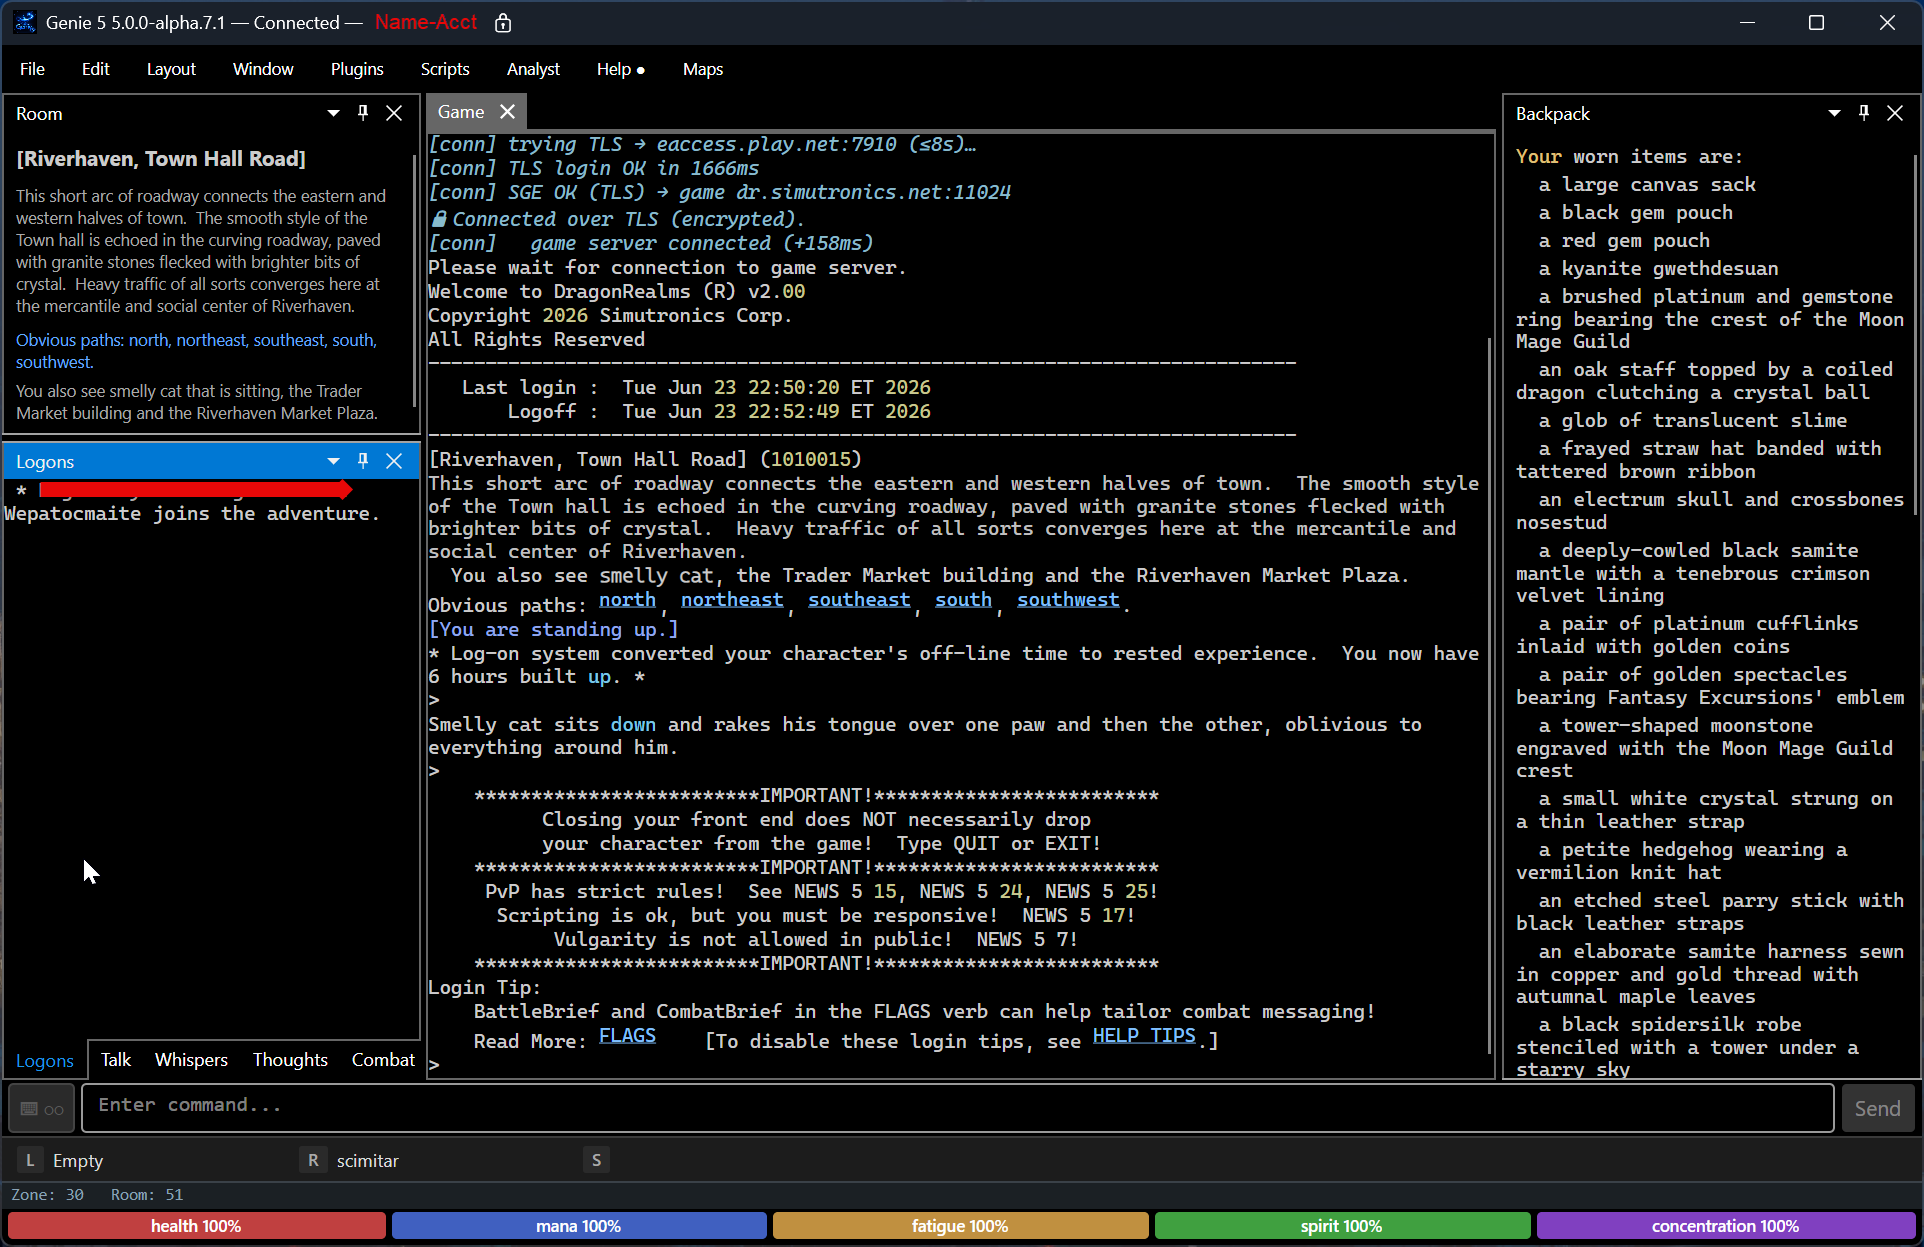
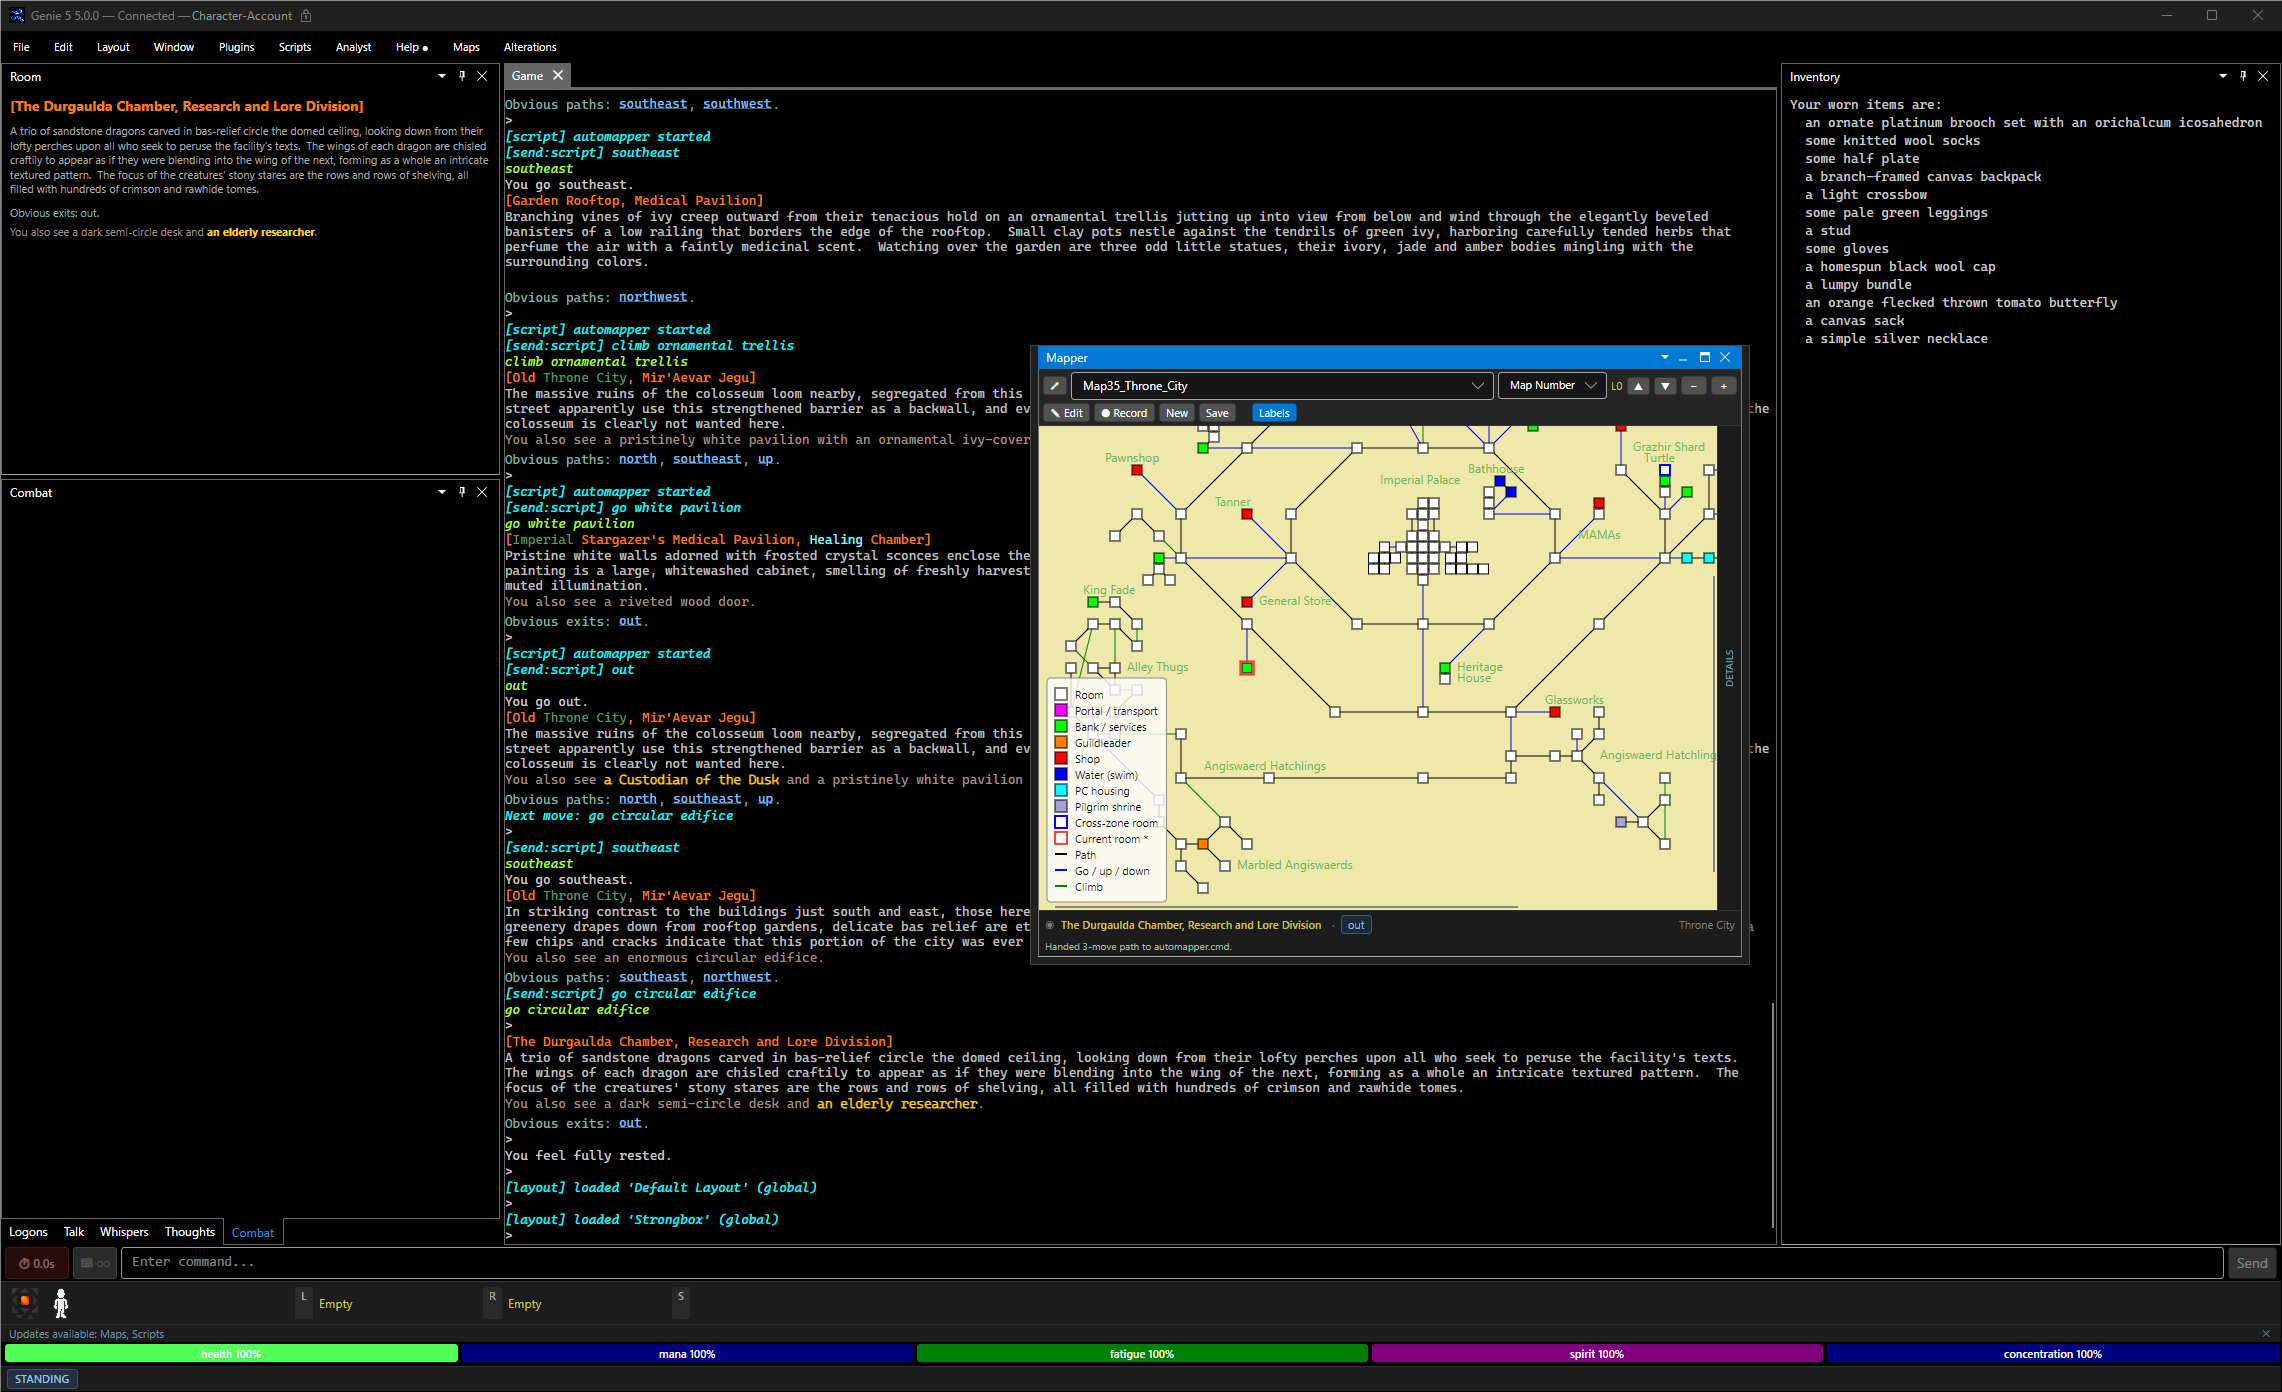
docs(readme): replace the three screenshots with the 5.0.0 captures
game-session, mapper and connect-dialog now match the wiki's
interface-default-layout, mapper-panel and connect-dialog images. The
screenshots notes say to keep account and character names out of frame.

diff --git a/docs/screenshots/README.md b/docs/screenshots/README.md
@@ -7,14 +7,18 @@ using the **exact filenames** below — the README links to them by name.
 | Filename | What it shows | Suggested capture |
 |---|---|---|
 | `game-session.png` | A live DragonRealms session — game stream, Room panel, Backpack/inventory, and the Logons/Talk/Whispers/Thoughts/Combat stream tabs, with the vitals bar. | Connected, standing in a well-described room (e.g. Riverhaven, Town Hall Road). Whole window. |
-| `mapper.png` | The Mapper panel — zone picker, Edit/Record/New/Save/Labels toolbar, level controls, and the map canvas. | Mapper window with a zone loaded (or the "No zone loaded" empty state). |
-| `connect-dialog.png` | The **Connect to DragonRealms** dialog — Profile, Mode, Instance, Account/Password, Character fetch, and the TLS toggle. | File → Connect…, before entering credentials (leave Account/Password blank). |
+| `mapper.png` | The Mapper panel — zone picker with its sort control, Edit/Record/New/Save/Labels toolbar, level controls, the map canvas and its legend. | Mapper window with a zone loaded (or the "No zone loaded" empty state). |
+| `connect-dialog.png` | The **Connect to DragonRealms** dialog — Profile, Mode, Instance, Account/Password, Character fetch, and the TLS toggle. | File → Connect…, either empty or with a saved profile loaded. If a profile is loaded, replace the profile, account and character names with placeholders. |
 
 ## Tips
 
 - **Crop to the window**, not the whole desktop — no taskbar or wallpaper.
-- **Don't capture credentials.** Leave Account/Password empty in the connect
-  dialog, and avoid showing a real character name in the title bar where it's
-  easy to redact.
+- **Don't capture credentials or names.** No account name, password or
+  character name in any image: leave the fields empty, or replace them with
+  placeholders such as `Character-Account`. Keep other players' names and
+  speech out of frame too.
 - PNG, captured at 100% display scaling. ~1000–2000 px wide is plenty; GitHub
   scales them down in the rendered README.
+
+The current set was captured on 5.0.0 and matches `wiki/images/`
+(`interface-default-layout.png`, `mapper-panel.png`, `connect-dialog.png`).
